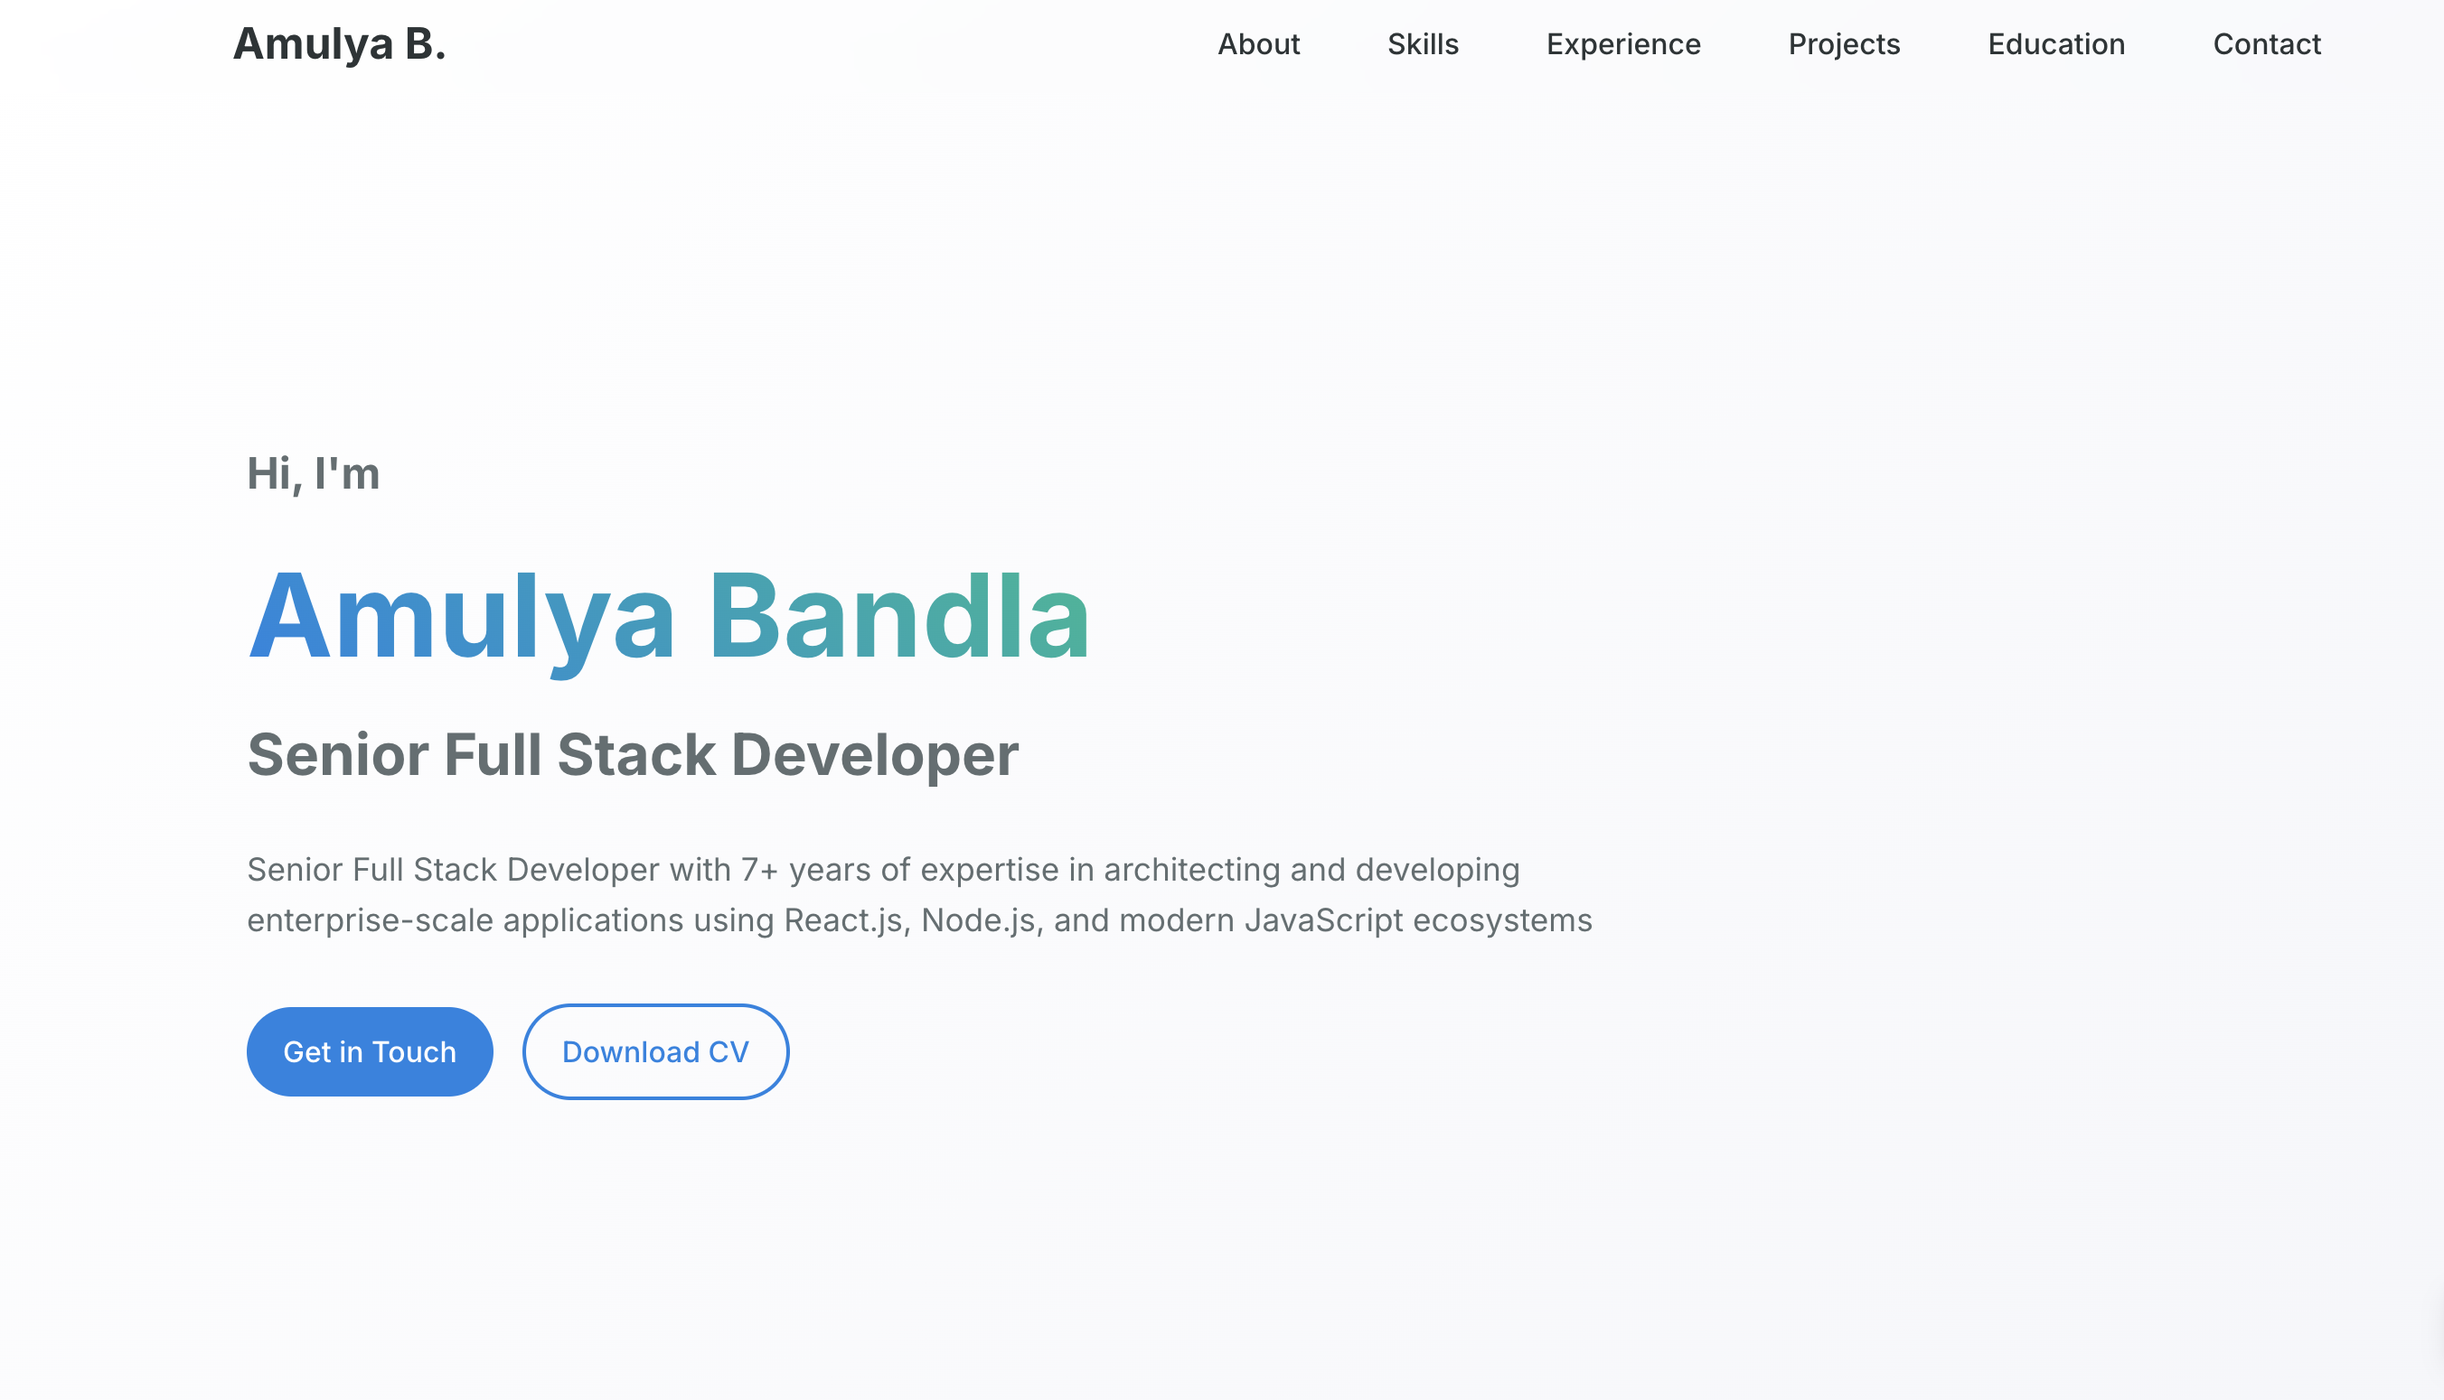
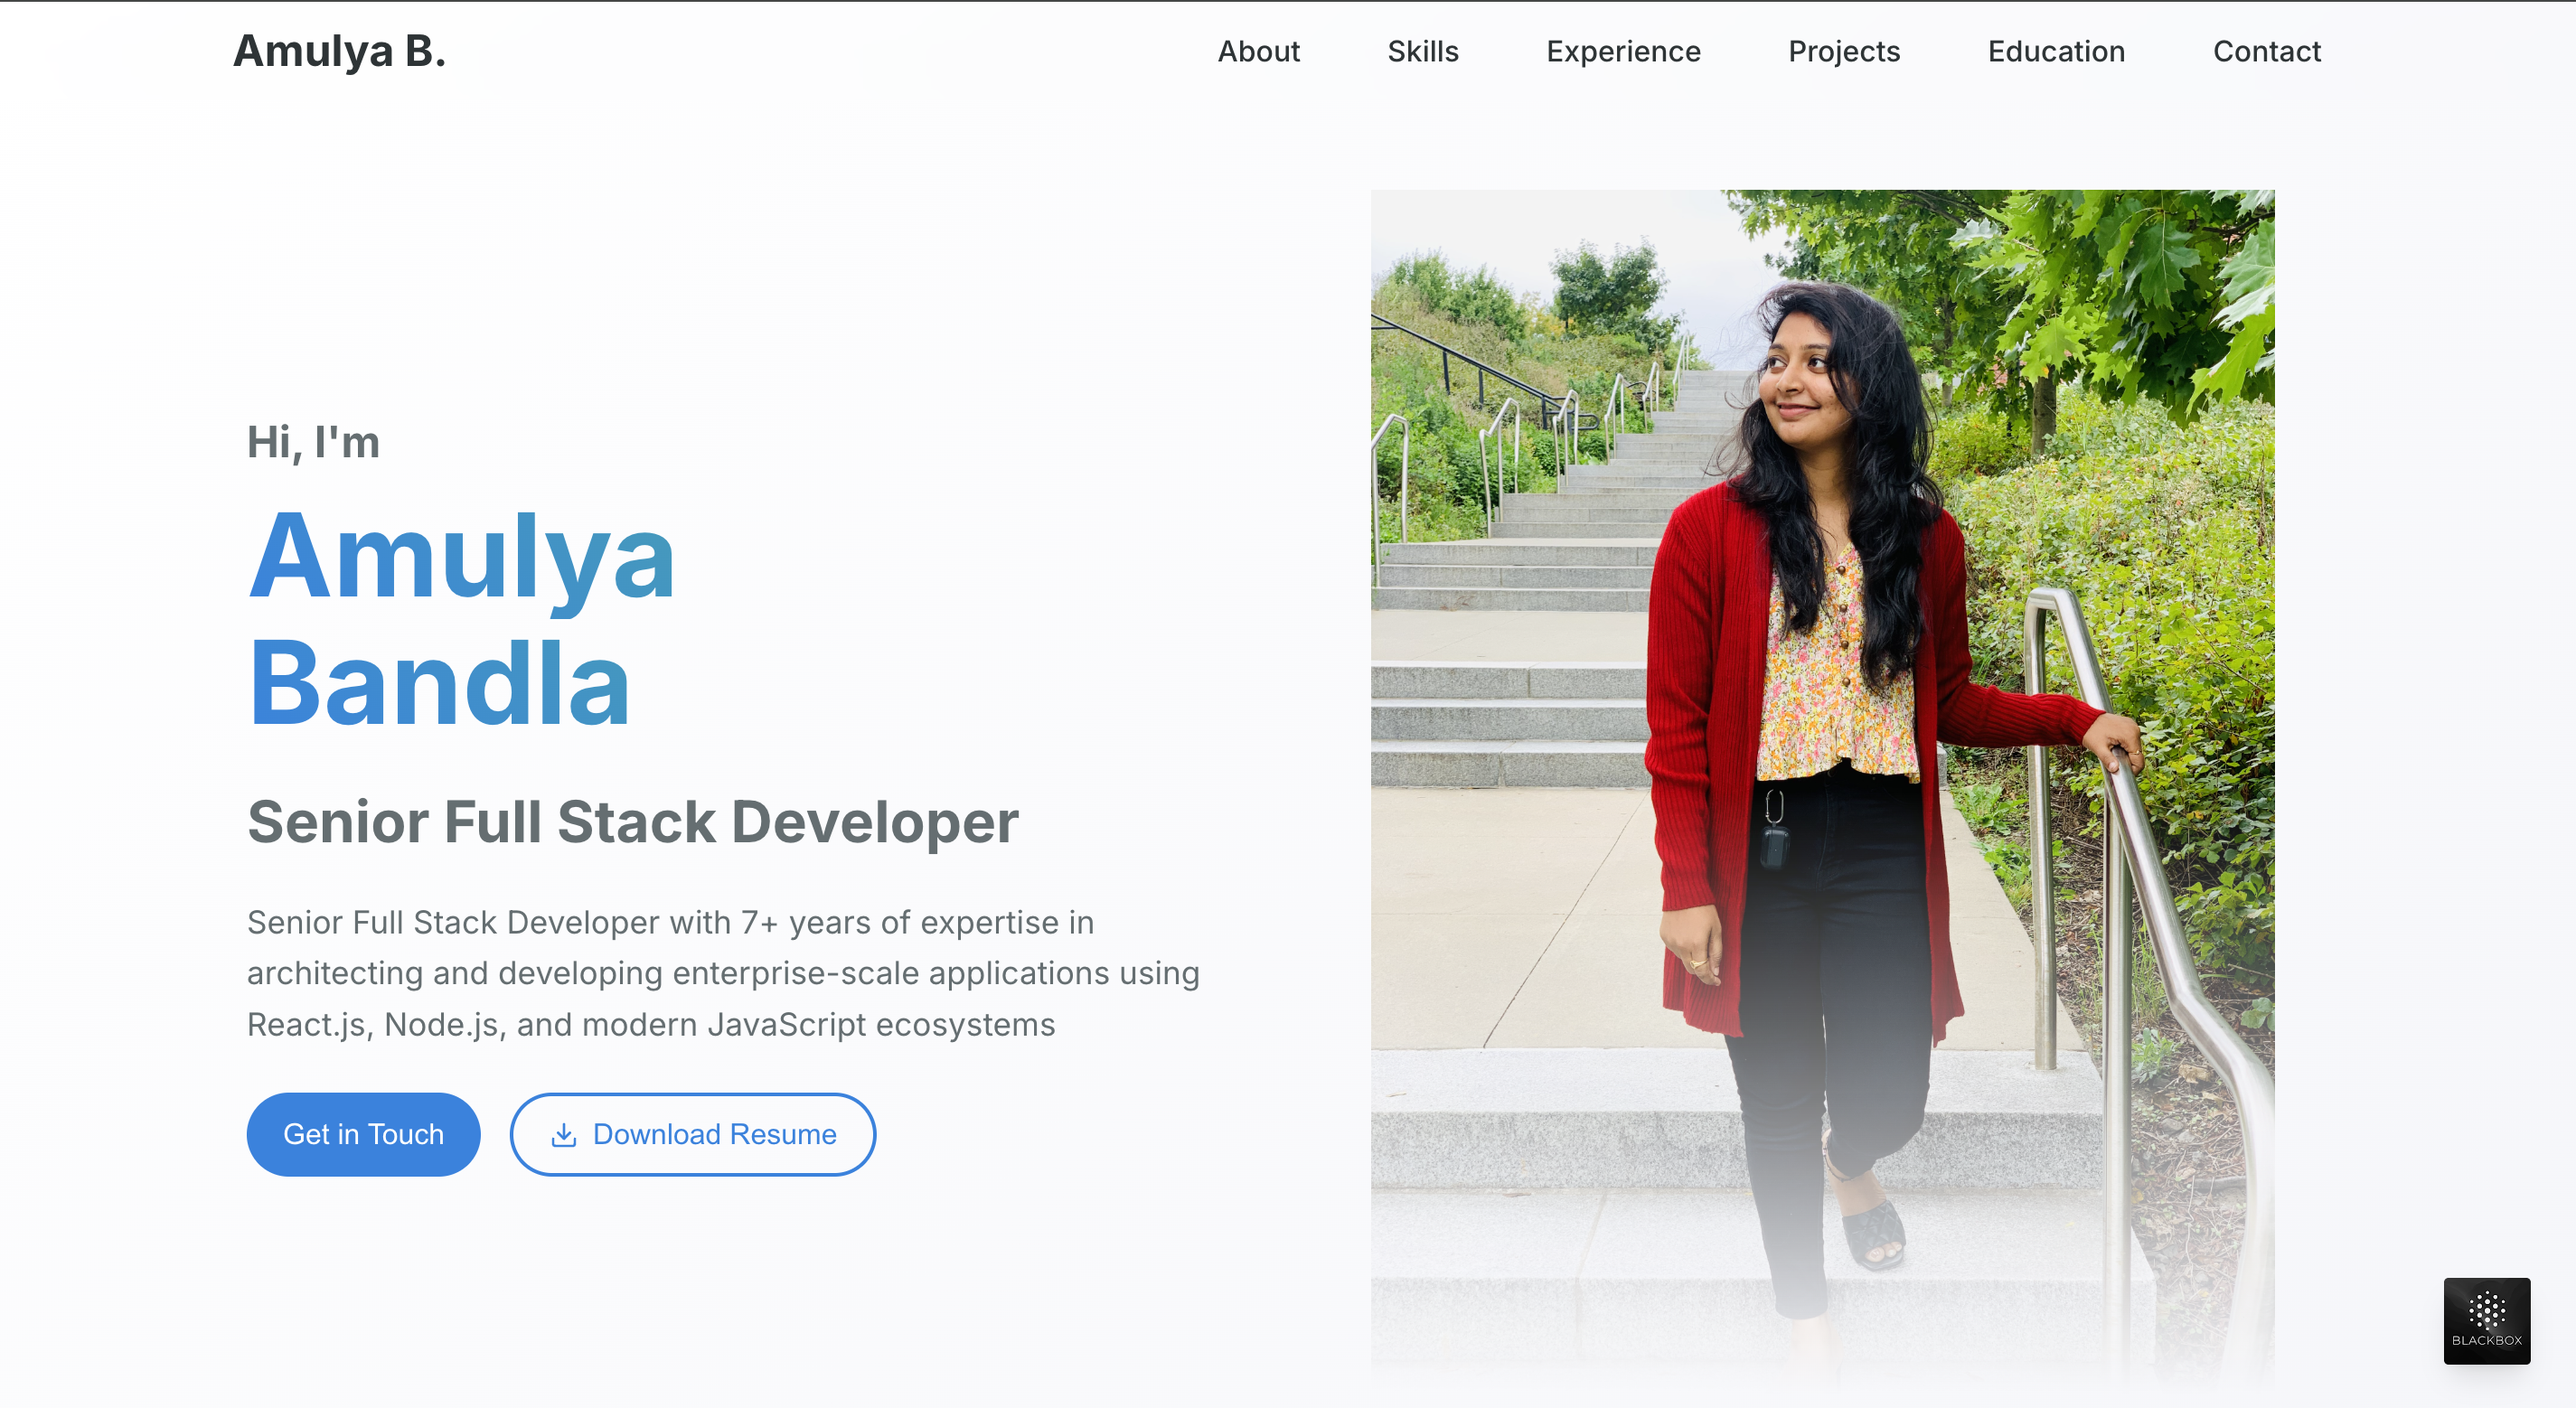
Added image in th hero section and also added the live link for my project

diff --git a/src/components/Hero/Hero.scss b/src/components/Hero/Hero.scss
@@ -7,78 +7,116 @@
   background: linear-gradient(135deg, $background-primary 0%, $background-secondary 100%);
 
   &__container {
-    @include flex(column, center, flex-start);
+    @include flex(row, space-between, center);
     max-width: 1200px;
     margin: 0 auto;
     padding: $container-padding;
     min-height: calc(100vh - 80px);
+    gap: 2rem;
   }
 
-  &__content {
-    max-width: 800px;
+  &__left {
+    flex: 1;
+    
+    h1 {
+      font-size: 1.5rem;
+      color: $text-secondary;
+      margin-bottom: $spacing-unit;
+    }
+
+    h2.gradient-text {
+      font-size: 4rem;
+      font-weight: 700;
+      background: linear-gradient(45deg, $secondary-color, $accent-color);
+      -webkit-background-clip: text;
+      -webkit-text-fill-color: transparent;
+      line-height: 1.1;
+    }
+
+    h3 {
+      font-size: 2rem;
+      color: $text-secondary;
+      margin: $spacing-unit * 2 0;
+    }
+
+    p {
+      font-size: 1.1rem;
+      line-height: 1.6;
+      color: $text-secondary;
+      margin-bottom: $spacing-unit * 3;
+    }
   }
 
-  &__greeting {
-    display: block;
-    font-size: 1.5rem;
-    color: $text-secondary;
-    margin-bottom: $spacing-unit;
-  }
-
-  &__name {
-    font-size: 4rem;
-    font-weight: 700;
-    color: $primary-color;
-    margin-bottom: $spacing-unit * 2;
-    background: linear-gradient(45deg, $secondary-color, $accent-color);
-    -webkit-background-clip: text;
-    -webkit-text-fill-color: transparent;
-  }
-
-  &__title {
-    font-size: 2rem;
-    color: $text-secondary;
-    margin-bottom: $spacing-unit * 3;
-  }
-
-  &__summary {
-    font-size: 1.1rem;
-    line-height: 1.6;
-    color: $text-secondary;
-    margin-bottom: $spacing-unit * 4;
-  }
-
-  &__cta {
-    @include flex(row, flex-start, center);
-    gap: $spacing-unit * 2;
-    margin-top: $spacing-unit * 3;
-  }
-
-  &__resume-btn {
-    display: inline-flex;
+  &__right {
+    flex: 1;
+    display: flex;
+    justify-content: center;
     align-items: center;
-    gap: $spacing-unit;
-    padding: $spacing-unit * 1.5 $spacing-unit * 2.5;
-    background: $secondary-color;
-    color: $background-primary;
-    text-decoration: none;
-    border-radius: 25px;
-    font-family: $font-primary;
-    font-size: 1rem;
-    transition: all 0.3s ease;
-    box-shadow: 0 4px 15px rgba($secondary-color, 0.2);
+    
+    .hero__profile-img {
+      width: 100%;
+      max-width: 500px;
+      height: auto;
+      mask-image: linear-gradient(to bottom, black 50%, transparent 100%);
+      -webkit-mask-image: linear-gradient(to bottom, black 50%, transparent 100%);
+    }
+  }
 
-    svg {
-      font-size: 1.2rem;
+  &__buttons {
+    display: flex;
+    gap: $spacing-unit * 2;
+    
+    button {
+      padding: $spacing-unit * 1.5 $spacing-unit * 2.5;
+      border-radius: 25px;
+      font-size: 1rem;
+      display: flex;
+      align-items: center;
+      gap: $spacing-unit;
+      border: none;
+      cursor: pointer;
+      transition: all 0.3s ease;
+
+      &.btn-primary {
+        background: $secondary-color;
+        color: white;
+        
+        &:hover {
+          background: darken($secondary-color, 10%);
+          transform: translateY(-2px);
+        }
+      }
+
+      &.btn-secondary {
+        background: transparent;
+        border: 2px solid $secondary-color;
+        color: $secondary-color;
+        
+        &:hover {
+          background: $secondary-color;
+          color: white;
+          transform: translateY(-2px);
+        }
+      }
+    }
+  }
+
+  @media (max-width: 768px) {
+    &__container {
+      flex-direction: column-reverse;
+      text-align: center;
     }
 
-    &:hover {
-      background: darken($secondary-color, 10%);
-      transform: translateY(-2px);
+    &__buttons {
+      justify-content: center;
     }
 
-    &:active {
-      transform: translateY(0);
+    &__right {
+      margin-bottom: $spacing-unit * 2;
+      
+      .hero__profile-img {
+        max-width: 300px;
+      }
     }
   }
 }

diff --git a/src/components/Hero/Hero.jsx b/src/components/Hero/Hero.jsx
@@ -1,37 +1,35 @@
 import React from 'react';
 import { FiDownload } from 'react-icons/fi';
 import './Hero.scss';
-import { usePortfolio } from '../../context/PortfolioContext';
 
 const Hero = () => {
-  const { personalInfo, summary } = usePortfolio();
-
   return (
     <section className="hero">
       <div className="hero__container">
-        <div className="hero__content">
-          <h1>
-            <span className="hero__greeting">Hi, I'm</span>
-            <span className="hero__name">{personalInfo.firstname} {personalInfo.lastname}</span>
-          </h1>
-          <h2 className="hero__title">Senior Full Stack Developer</h2>
-          <p className="hero__summary">{summary[0]}</p>
-          <div className="hero__cta">
-            <a href="#contact" className="btn btn-primary">Get in Touch</a>
-            <a 
-              href="/documents/AmulyaBandlaReactDeveloper.pdf"
-              download="Amulya_Bandla_Resume.pdf"
-              className="hero__resume-btn"
-              target="_blank"
-              rel="noopener noreferrer"
-            >
+        <div className="hero__left">
+          <h1>Hi, I'm</h1>
+          <h2 className="gradient-text">Amulya</h2>
+          <h2 className="gradient-text">Bandla</h2>
+          <h3>Senior Full Stack Developer</h3>
+          <p>Senior Full Stack Developer with 7+ years of expertise in architecting and developing enterprise-scale applications using React.js, Node.js, and modern JavaScript ecosystems</p>
+          <div className="hero__buttons">
+            <button className="btn-primary">Get in Touch</button>
+            <button className="btn-secondary">
               <FiDownload /> Download Resume
-            </a>
+            </button>
           </div>
+        </div>
+        
+        <div className="hero__right">
+          <img 
+            src="/images/profile.jpg" 
+            alt="Amulya Bandla" 
+            className="hero__profile-img"
+          />
         </div>
       </div>
     </section>
   );
 };
 
-export default Hero; 
+export default Hero;
